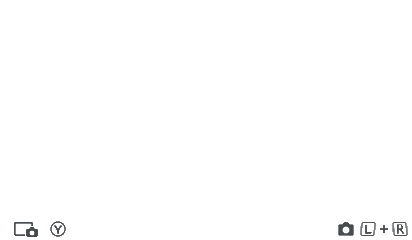
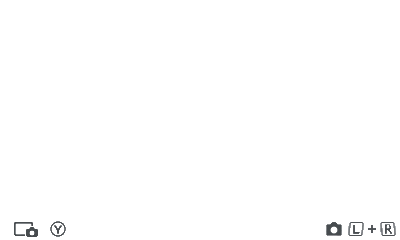
Added bottom screen arrows to simulator

Changed region(s): [[0.81, 0.9333, 0.99, 0.9917], [0.12, 0.9042, 0.18, 0.9917], [0.03, 0.9333, 0.09, 0.9917]]

diff --git a/Simulators/Sim.cs b/Simulators/Sim.cs
@@ -2,6 +2,7 @@
 using System.Collections.Generic;
 using System.ComponentModel;
 using System.Data;
+using System.Diagnostics;
 using System.Drawing;
 using System.Drawing.Drawing2D;
 using System.Globalization;
@@ -29,8 +30,14 @@ namespace YATA {
         public Sim() {
             InitializeComponent();
             imgs = Form1.imageArray;
-            Overlay_back_img.Parent = topImage;
-            overlay_text_img.Parent = Overlay_back_img;
+            Overlay_LR_TOP_img.Parent = topImage;
+            Arrows_bottom.Parent = bottomImage;
+            Arrows_bottom.Location = new Point(0,0);
+            if (!Form1.APP_ShowUI_Sim)
+            {
+                Overlay_LR_TOP_img.Visible = false;
+                Arrows_bottom.Visible = false;
+            }
             setColors();
             loadImages();
         }
@@ -39,33 +46,50 @@ namespace YATA {
         {
             byte[] tempbytes;
             Bitmap img;
-            #region TopOverlay
+            #region Top_Overlay
             //Top overlay
             if (Form1.enableSec[14] == 1) //If custom color is enabled
             {
                 tempbytes = Form1.colChunks[13];
-                img = new Bitmap(Overlay_back_img.Image);
-                Color back = Color.FromArgb(0xFF, tempbytes[0], tempbytes[1], tempbytes[2]);
-                for (int i = 0; i < img.Width; i++)
-                {
-                    for (int ii = 0; ii < img.Height; ii++)
-                    {
-                        if (img.GetPixel(i, ii).A != 0) img.SetPixel(i, ii, back);
-                    }
-                }
-                Overlay_back_img.Image = img;
-                Color text = Color.FromArgb(0xFF, tempbytes[9], tempbytes[10], tempbytes[11]);
-                img = new Bitmap(overlay_text_img.Image);
-                for (int i = 0; i < img.Width; i++)
-                {
-                    for (int ii = 0; ii < img.Height; ii++)
-                    {
-                        if (img.GetPixel(i, ii).A != 0) img.SetPixel(i, ii, text);
-                    }
-                }
-                overlay_text_img.Image = img;
+                img = new Bitmap(Properties.Resources.top_overlay_background);
+                setColor(img, Color.FromArgb(0xFF, tempbytes[0], tempbytes[1], tempbytes[2]));
+                Overlay_LR_TOP_img.BackgroundImage = img;
+               
+                img = new Bitmap(Properties.Resources.top_overlay_text);
+                setColor(img, Color.FromArgb(0xFF, tempbytes[9], tempbytes[10], tempbytes[11]));
+                Overlay_LR_TOP_img.Image = img;
             }
             #endregion
+            #region Bot_Arrows
+            if (Form1.enableSec[6] == 1) //If custom color is enabled
+            {
+                tempbytes = Form1.colChunks[3];
+                img = new Bitmap(Properties.Resources.Bottom_arrow_fore);
+                setColor(img, Color.FromArgb(0xFF, tempbytes[3], tempbytes[4], tempbytes[5]));               
+                Arrows_bottom.Image = img;
+            }
+            if (Form1.enableSec[7] == 1) //If custom color is enabled
+            {
+                tempbytes = Form1.colChunks[4];
+                img = new Bitmap(Properties.Resources.Bottom_arrow_back);
+                setColor(img, Color.FromArgb(0xFF, tempbytes[3], tempbytes[4], tempbytes[5]));
+                Arrows_bottom.BackgroundImage = img;
+            }
+            #endregion
+        }
+
+        private Bitmap setColor(Bitmap img, Color col) 
+        {
+            Bitmap result;
+            result = img;
+            for (int i = 0; i < result.Width; i++)
+            {
+                for (int ii = 0; ii < result.Height; ii++)
+                {
+                    if (result.GetPixel(i, ii).A != 0) result.SetPixel(i, ii, col);
+                }
+            }
+            return result;
         }
 
         private void loadImages() {
@@ -103,12 +127,13 @@ namespace YATA {
                     int[] pattern = { 0, 1, 2, 1};
                     if (e.KeyCode == Keys.Right) {
                         frameCnt++;
-                        if (frameCnt == 3) frameCnt = 0;
+                        if (frameCnt == 4) frameCnt = 0;
                     }
                     else if (e.KeyCode == Keys.Left) {
                         frameCnt--;
                         if (frameCnt < 0) frameCnt = 3;
                     }
+                    if (frameCnt > 3) frameCnt = 3;
                     frame = pattern[frameCnt];
                 }
                 switch (frame) {
@@ -126,6 +151,11 @@ namespace YATA {
                 gr.Flush();
                 gr.Dispose();
             }
+        }
+
+        private void Help_Click(object sender, EventArgs e)
+        {
+            MessageBox.Show("This is theme simulator, it won't give you a 100% precise simulation of the theme");
         }
 
         private void updateGUI()
@@ -187,7 +217,7 @@ namespace YATA {
                 {
                     Image preview = new Bitmap(400, 240);
                     Graphics g = Graphics.FromImage(preview);
-                    if (!Form1.APP_ShowUI_Sim) { g.DrawImage(topImg, 0, 0, new Rectangle(new Point(0, 0), new Size(400, 240)), GraphicsUnit.Pixel); } else { g.DrawImage(topImage.Image, 0, 0, new Rectangle(new Point(0, 0), new Size(400, 240)), GraphicsUnit.Pixel); g.DrawImage(Overlay_back_img.Image, 0, 0, new Rectangle(new Point(0, 0), new Size(400, 240)), GraphicsUnit.Pixel); g.DrawImage(overlay_text_img.Image, 0, 0, new Rectangle(new Point(0, 0), new Size(400, 240)), GraphicsUnit.Pixel); }
+                    if (!Form1.APP_ShowUI_Sim) { g.DrawImage(topImg, 0, 0, new Rectangle(new Point(0, 0), new Size(400, 240)), GraphicsUnit.Pixel); } else { g.DrawImage(topImage.Image, 0, 0, new Rectangle(new Point(0, 0), new Size(400, 240)), GraphicsUnit.Pixel); g.DrawImage(Overlay_LR_TOP_img.BackgroundImage, 0, 0, new Rectangle(new Point(0, 0), new Size(400, 240)), GraphicsUnit.Pixel); g.DrawImage(Overlay_LR_TOP_img.Image, 0, 0, new Rectangle(new Point(0, 0), new Size(400, 240)), GraphicsUnit.Pixel); }
                         preview.Save(save.FileName);
                     this.Close();
                 }
@@ -195,7 +225,7 @@ namespace YATA {
                 {
                     Image preview = new Bitmap(400, 240);
                     Graphics g = Graphics.FromImage(preview);
-                    if (!Form1.APP_ShowUI_Sim) { g.DrawImage(topImg, 0, 0, new Rectangle(new Point(0, 0), new Size(400, 240)), GraphicsUnit.Pixel); } else { g.DrawImage(topImage.Image, 0, 0, new Rectangle(new Point(0, 0), new Size(400, 240)), GraphicsUnit.Pixel); g.DrawImage(Overlay_back_img.Image, 0, 0, new Rectangle(new Point(0, 0), new Size(400, 240)), GraphicsUnit.Pixel); g.DrawImage(overlay_text_img.Image, 0, 0, new Rectangle(new Point(0, 0), new Size(400, 240)), GraphicsUnit.Pixel); }
+                    if (!Form1.APP_ShowUI_Sim) { g.DrawImage(topImg, 0, 0, new Rectangle(new Point(0, 0), new Size(400, 240)), GraphicsUnit.Pixel); } else { g.DrawImage(topImage.Image, 0, 0, new Rectangle(new Point(0, 0), new Size(400, 240)), GraphicsUnit.Pixel); g.DrawImage(Overlay_LR_TOP_img.BackgroundImage, 0, 0, new Rectangle(new Point(0, 0), new Size(400, 240)), GraphicsUnit.Pixel); g.DrawImage(Overlay_LR_TOP_img.Image, 0, 0, new Rectangle(new Point(0, 0), new Size(400, 240)), GraphicsUnit.Pixel); }
                         preview.Save(Form1.Preview_PATH);
                     this.Close();
                 }

diff --git a/Simulators/Sim.Designer.cs b/Simulators/Sim.Designer.cs
@@ -24,25 +24,38 @@
         /// </summary>
         private void InitializeComponent() {
             System.ComponentModel.ComponentResourceManager resources = new System.ComponentModel.ComponentResourceManager(typeof(Sim));
-            this.Overlay_back_img = new System.Windows.Forms.PictureBox();
+            this.Arrows_bottom = new System.Windows.Forms.PictureBox();
+            this.Overlay_LR_TOP_img = new System.Windows.Forms.PictureBox();
             this.bottomImage = new System.Windows.Forms.PictureBox();
             this.topImage = new System.Windows.Forms.PictureBox();
-            this.overlay_text_img = new System.Windows.Forms.PictureBox();
-            ((System.ComponentModel.ISupportInitialize)(this.Overlay_back_img)).BeginInit();
+            this.Help = new System.Windows.Forms.Button();
+            ((System.ComponentModel.ISupportInitialize)(this.Arrows_bottom)).BeginInit();
+            ((System.ComponentModel.ISupportInitialize)(this.Overlay_LR_TOP_img)).BeginInit();
             ((System.ComponentModel.ISupportInitialize)(this.bottomImage)).BeginInit();
             ((System.ComponentModel.ISupportInitialize)(this.topImage)).BeginInit();
-            ((System.ComponentModel.ISupportInitialize)(this.overlay_text_img)).BeginInit();
             this.SuspendLayout();
             // 
-            // Overlay_back_img
+            // Arrows_bottom
             // 
-            this.Overlay_back_img.BackColor = System.Drawing.Color.Transparent;
-            this.Overlay_back_img.Image = global::YATA.Properties.Resources.top_overlay_background;
-            this.Overlay_back_img.Location = new System.Drawing.Point(0, 0);
-            this.Overlay_back_img.Name = "Overlay_back_img";
-            this.Overlay_back_img.Size = new System.Drawing.Size(400, 240);
-            this.Overlay_back_img.TabIndex = 2;
-            this.Overlay_back_img.TabStop = false;
+            this.Arrows_bottom.BackColor = System.Drawing.Color.Transparent;
+            this.Arrows_bottom.BackgroundImage = global::YATA.Properties.Resources.Bottom_arrow_back;
+            this.Arrows_bottom.Image = global::YATA.Properties.Resources.Bottom_arrow_fore;
+            this.Arrows_bottom.Location = new System.Drawing.Point(40, 240);
+            this.Arrows_bottom.Name = "Arrows_bottom";
+            this.Arrows_bottom.Size = new System.Drawing.Size(320, 240);
+            this.Arrows_bottom.TabIndex = 4;
+            this.Arrows_bottom.TabStop = false;
+            // 
+            // Overlay_LR_TOP_img
+            // 
+            this.Overlay_LR_TOP_img.BackColor = System.Drawing.Color.Transparent;
+            this.Overlay_LR_TOP_img.BackgroundImage = global::YATA.Properties.Resources.top_overlay_background;
+            this.Overlay_LR_TOP_img.Image = global::YATA.Properties.Resources.top_overlay_text;
+            this.Overlay_LR_TOP_img.Location = new System.Drawing.Point(0, 0);
+            this.Overlay_LR_TOP_img.Name = "Overlay_LR_TOP_img";
+            this.Overlay_LR_TOP_img.Size = new System.Drawing.Size(400, 240);
+            this.Overlay_LR_TOP_img.TabIndex = 2;
+            this.Overlay_LR_TOP_img.TabStop = false;
             // 
             // bottomImage
             // 
@@ -60,15 +73,16 @@
             this.topImage.TabIndex = 0;
             this.topImage.TabStop = false;
             // 
-            // overlay_text_img
+            // Help
             // 
-            this.overlay_text_img.BackColor = System.Drawing.Color.Transparent;
-            this.overlay_text_img.Image = global::YATA.Properties.Resources.top_overlay_text;
-            this.overlay_text_img.Location = new System.Drawing.Point(0, 0);
-            this.overlay_text_img.Name = "overlay_text_img";
-            this.overlay_text_img.Size = new System.Drawing.Size(400, 240);
-            this.overlay_text_img.TabIndex = 3;
-            this.overlay_text_img.TabStop = false;
+            this.Help.Location = new System.Drawing.Point(382, 465);
+            this.Help.Name = "Help";
+            this.Help.Size = new System.Drawing.Size(35, 25);
+            this.Help.TabIndex = 5;
+            this.Help.Text = "?";
+            this.Help.TextAlign = System.Drawing.ContentAlignment.TopLeft;
+            this.Help.UseVisualStyleBackColor = true;
+            this.Help.Click += new System.EventHandler(this.Help_Click);
             // 
             // Sim
             // 
@@ -76,20 +90,21 @@
             this.AutoScaleMode = System.Windows.Forms.AutoScaleMode.Font;
             this.BackColor = System.Drawing.Color.Black;
             this.ClientSize = new System.Drawing.Size(400, 482);
-            this.Controls.Add(this.overlay_text_img);
-            this.Controls.Add(this.Overlay_back_img);
-            this.Controls.Add(this.bottomImage);
+            this.Controls.Add(this.Help);
+            this.Controls.Add(this.Arrows_bottom);
+            this.Controls.Add(this.Overlay_LR_TOP_img);
             this.Controls.Add(this.topImage);
+            this.Controls.Add(this.bottomImage);
             this.FormBorderStyle = System.Windows.Forms.FormBorderStyle.FixedDialog;
             this.Icon = ((System.Drawing.Icon)(resources.GetObject("$this.Icon")));
             this.Name = "Sim";
             this.Text = "Theme Simulator";
             this.Load += new System.EventHandler(this.Sim_Load);
             this.KeyDown += new System.Windows.Forms.KeyEventHandler(this.Sim_KeyDown);
-            ((System.ComponentModel.ISupportInitialize)(this.Overlay_back_img)).EndInit();
+            ((System.ComponentModel.ISupportInitialize)(this.Arrows_bottom)).EndInit();
+            ((System.ComponentModel.ISupportInitialize)(this.Overlay_LR_TOP_img)).EndInit();
             ((System.ComponentModel.ISupportInitialize)(this.bottomImage)).EndInit();
             ((System.ComponentModel.ISupportInitialize)(this.topImage)).EndInit();
-            ((System.ComponentModel.ISupportInitialize)(this.overlay_text_img)).EndInit();
             this.ResumeLayout(false);
 
         }
@@ -98,7 +113,8 @@
 
         private System.Windows.Forms.PictureBox topImage;
         private System.Windows.Forms.PictureBox bottomImage;
-        private System.Windows.Forms.PictureBox Overlay_back_img;
-        private System.Windows.Forms.PictureBox overlay_text_img;
+        private System.Windows.Forms.PictureBox Overlay_LR_TOP_img;
+        private System.Windows.Forms.PictureBox Arrows_bottom;
+        private System.Windows.Forms.Button Help;
     }
 }

diff --git a/Properties/Resources.Designer.cs b/Properties/Resources.Designer.cs
@@ -83,6 +83,26 @@ namespace YATA.Properties {
         /// <summary>
         ///   Cerca una risorsa localizzata di tipo System.Drawing.Bitmap.
         /// </summary>
+        internal static System.Drawing.Bitmap Bottom_arrow_back {
+            get {
+                object obj = ResourceManager.GetObject("Bottom_arrow_back", resourceCulture);
+                return ((System.Drawing.Bitmap)(obj));
+            }
+        }
+        
+        /// <summary>
+        ///   Cerca una risorsa localizzata di tipo System.Drawing.Bitmap.
+        /// </summary>
+        internal static System.Drawing.Bitmap Bottom_arrow_fore {
+            get {
+                object obj = ResourceManager.GetObject("Bottom_arrow_fore", resourceCulture);
+                return ((System.Drawing.Bitmap)(obj));
+            }
+        }
+        
+        /// <summary>
+        ///   Cerca una risorsa localizzata di tipo System.Drawing.Bitmap.
+        /// </summary>
         internal static System.Drawing.Bitmap empty {
             get {
                 object obj = ResourceManager.GetObject("empty", resourceCulture);

diff --git a/Sett.cs b/Sett.cs
@@ -433,7 +433,7 @@ namespace YATA {
 
         private void button1_Click(object sender, EventArgs e)
         {
-            MessageBox.Show("None:Static image (both top and bottom screen) \r\nBOTTOM SCREEN: \r\n Flipbook tile:the order of frames will be 1-2-3-1-2-3 etc..\r\nFlipbook Cyclic:the order of frames will be 1-2-3-2-1-2-3-2 etc....");
+            MessageBox.Show("None:Static image (both top and bottom screen) \r\nBOTTOM SCREEN: \r\nFlipbook tile:the order of frames will be 1-2-3-2-1-2-3-2 etc..\r\nFlipbook Cyclic:the order of frames will be 1-2-3-1-2-3 etc..");
         }
 
         private void FORM_Closing(object sender, FormClosingEventArgs e)
